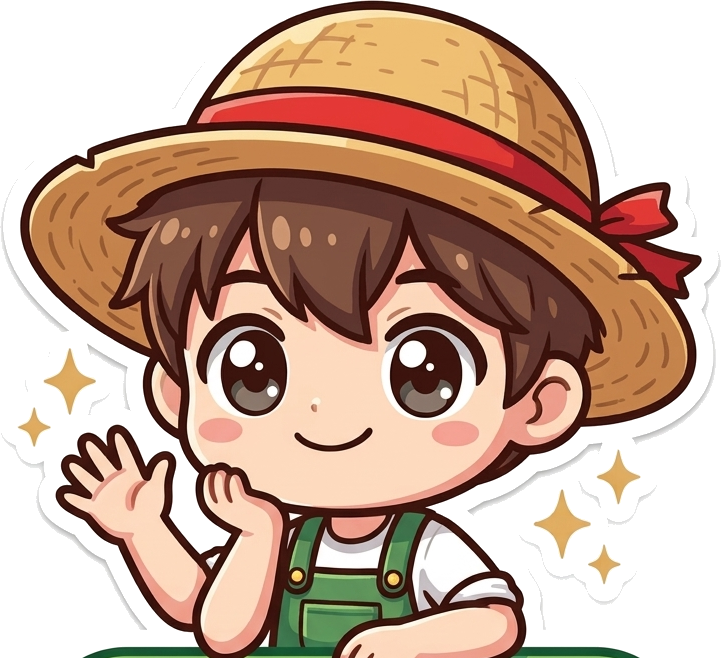
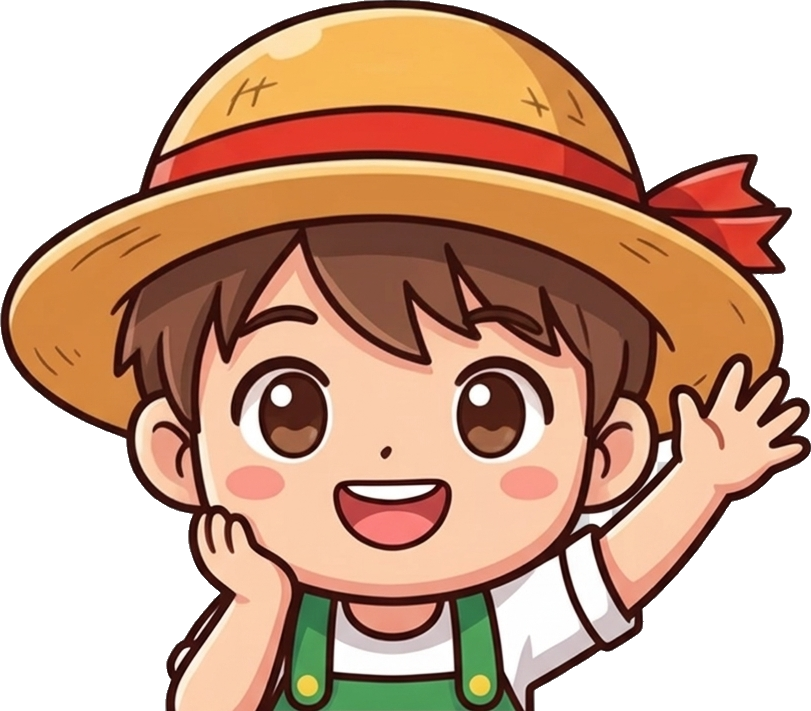
feat(sidebar): update active pill mascot to exact Bé Lyang character style resting and waving

diff --git a/frontend/src/components/layout/Layout.jsx b/frontend/src/components/layout/Layout.jsx
@@ -227,7 +227,7 @@ const NavItem = ({ icon: Icon, label, path, active, isCollapsed, onClick, liteTh
                         transition={{ type: "spring", stiffness: 420, damping: 26 }}
                         className={cn(
                             "absolute z-30 pointer-events-none select-none flex items-end",
-                            isCollapsed ? "-top-[26px] -right-1 w-9 h-9" : "-top-[28px] right-3.5 w-10 h-10"
+                            isCollapsed ? "-top-[28px] -right-1.5 w-9 h-9" : "-top-[30px] right-3.5 w-10 h-10"
                         )}
                     >
                         <m.img 
@@ -463,7 +463,7 @@ const NavGroup = memo(({ item, isActive, isCollapsed, liteTheme, customSidebarSt
                             animate={{ opacity: 1, scale: 1, y: 0 }}
                             exit={{ opacity: 0, scale: 0.7 }}
                             transition={{ type: "spring", stiffness: 420, damping: 26 }}
-                            className="absolute z-30 pointer-events-none select-none -top-[26px] -right-1 w-9 h-9"
+                            className="absolute z-30 pointer-events-none select-none -top-[28px] -right-1.5 w-9 h-9"
                         >
                             <m.img 
                                 src="/assets/images/mascot_active_pill.png" 
